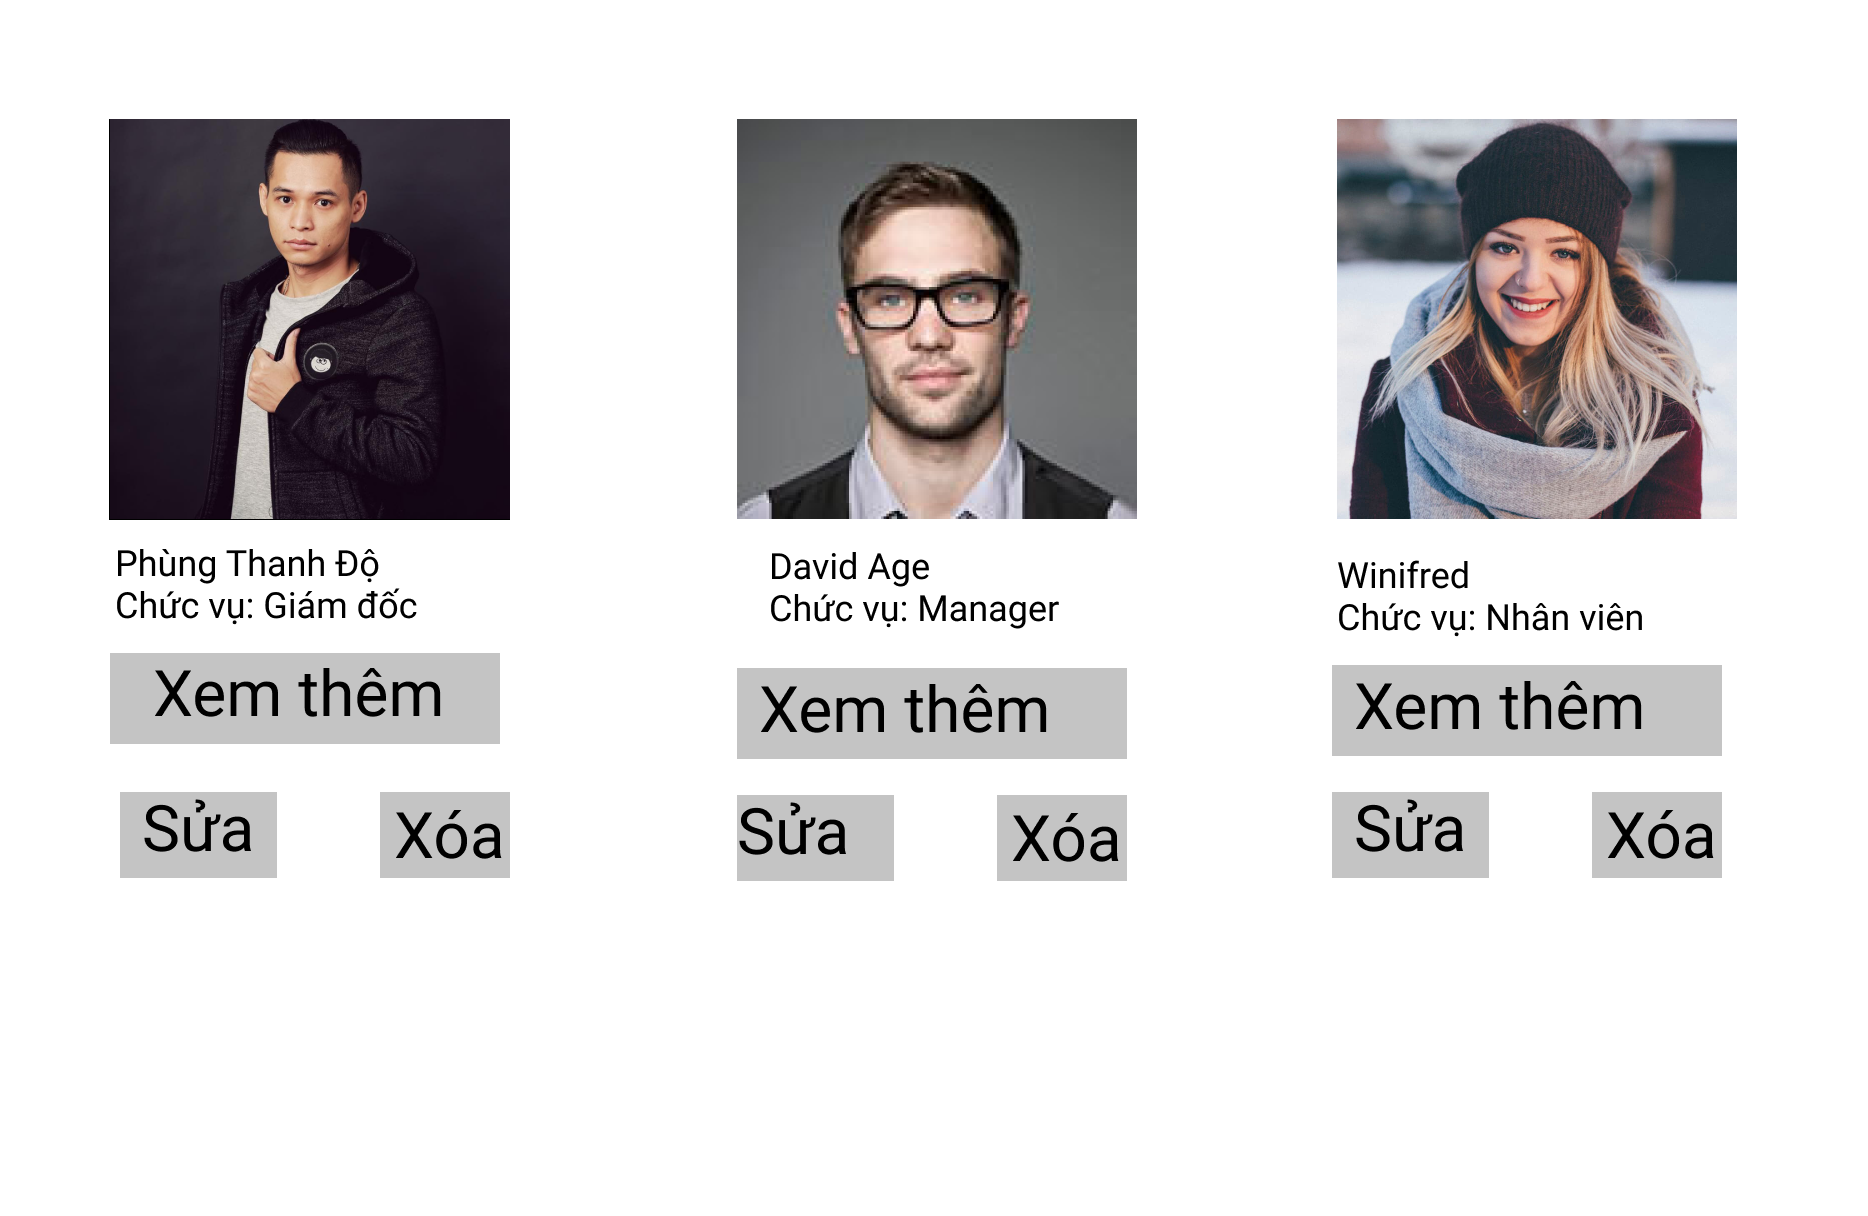
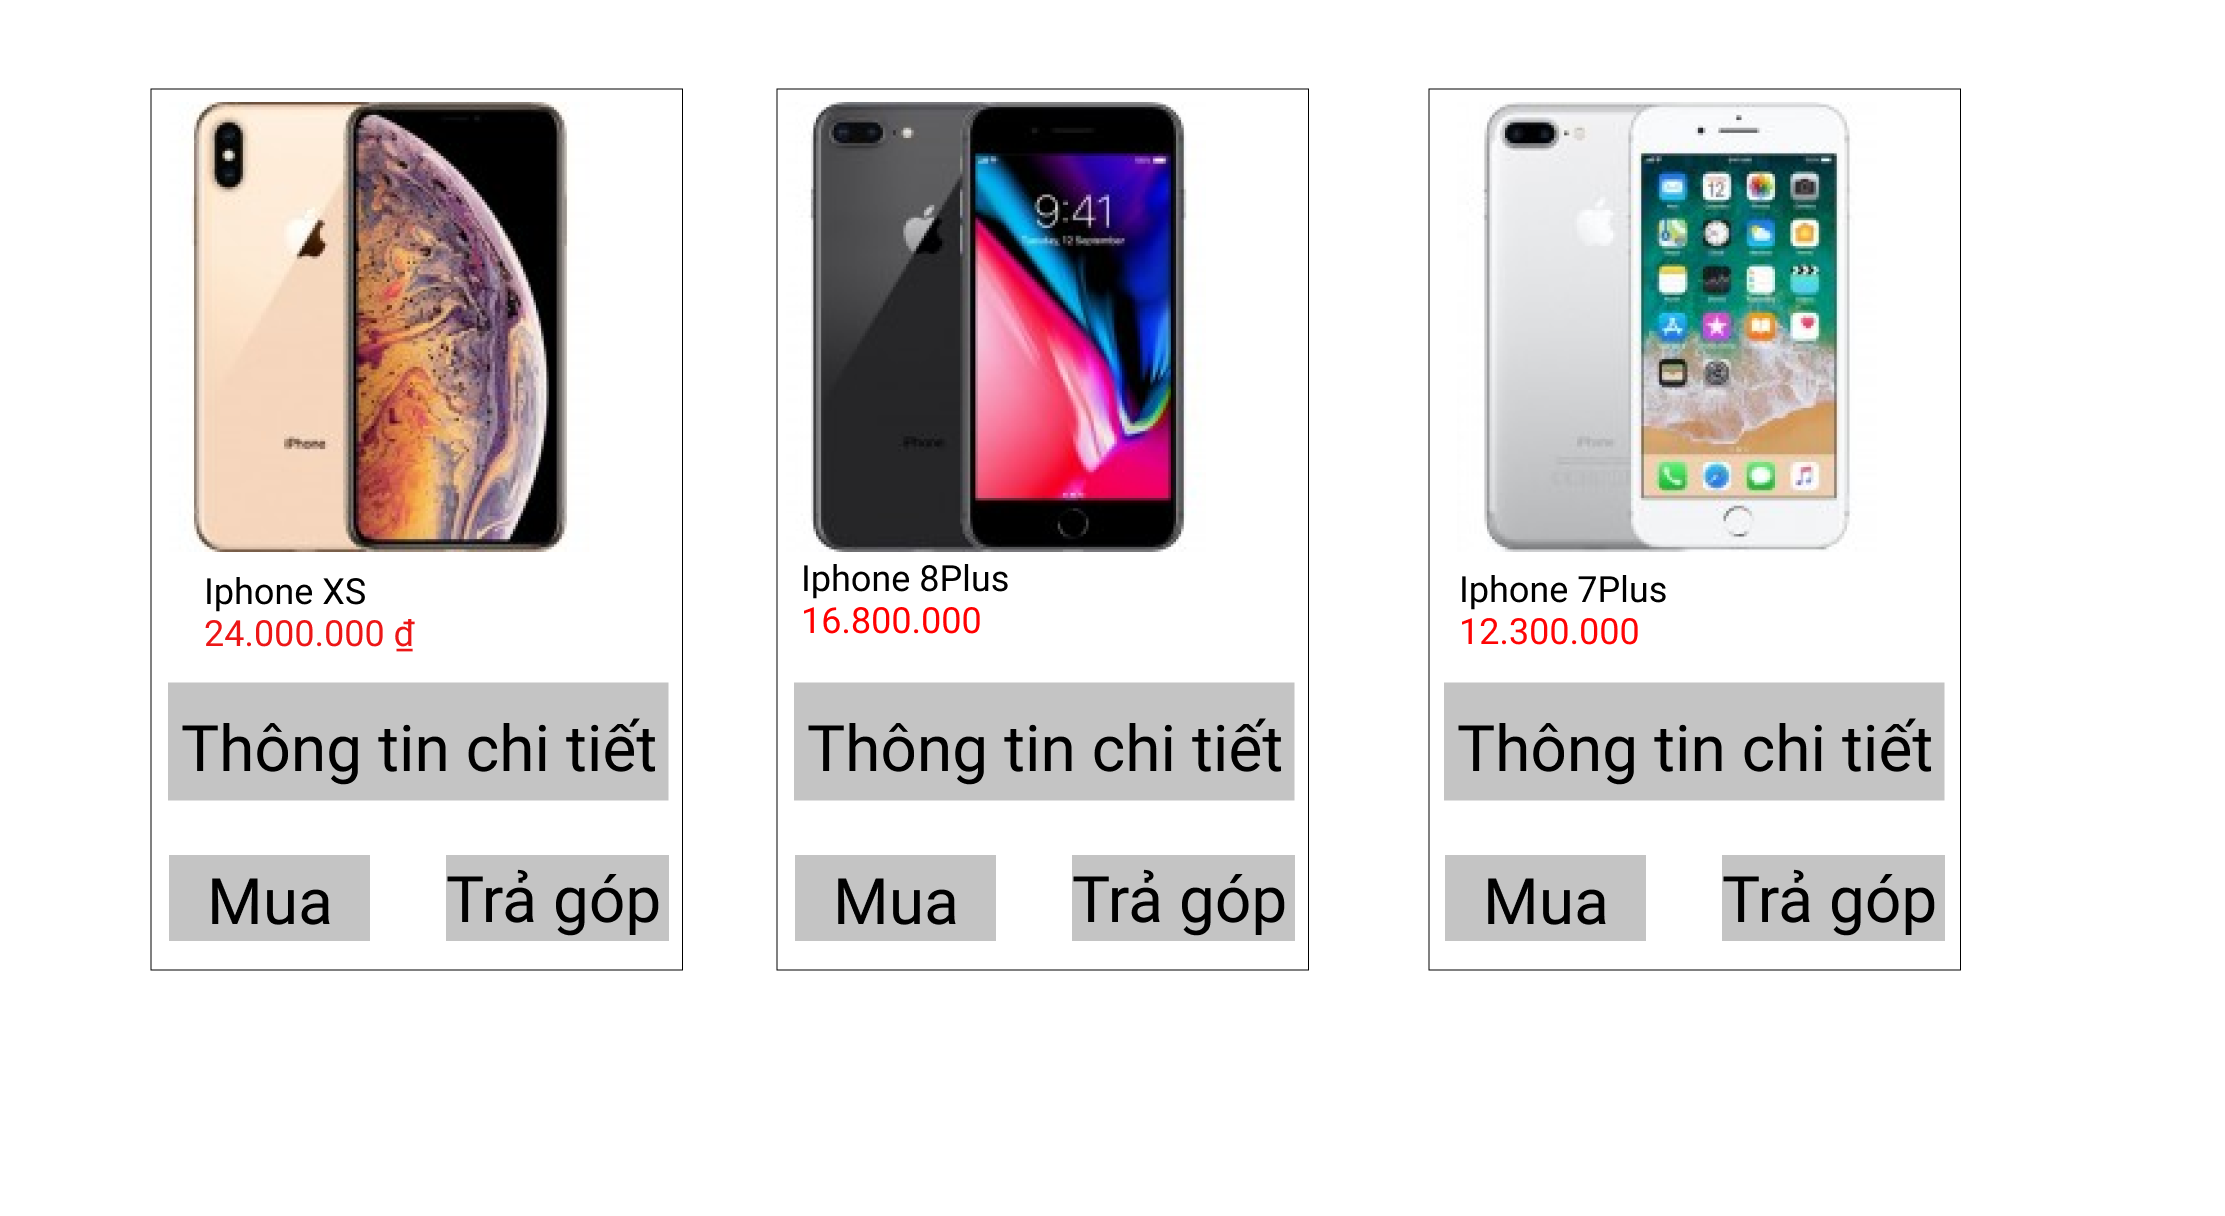
z

diff --git a/lab2.html b/lab2.html
@@ -244,7 +244,7 @@
             </div>
             <div class="nhanvien"> 
                 <img src="img/iphone_xs_64gb.jpg">
-                <p>Iphone XS Max</p>
+                <p>Iphone XS</p>
                 <p style="color: red">24.000.000 ₫</p>
                 <a href="">
                     <input type="submit" value="Thông tin chi tiết" style="width:245px">
